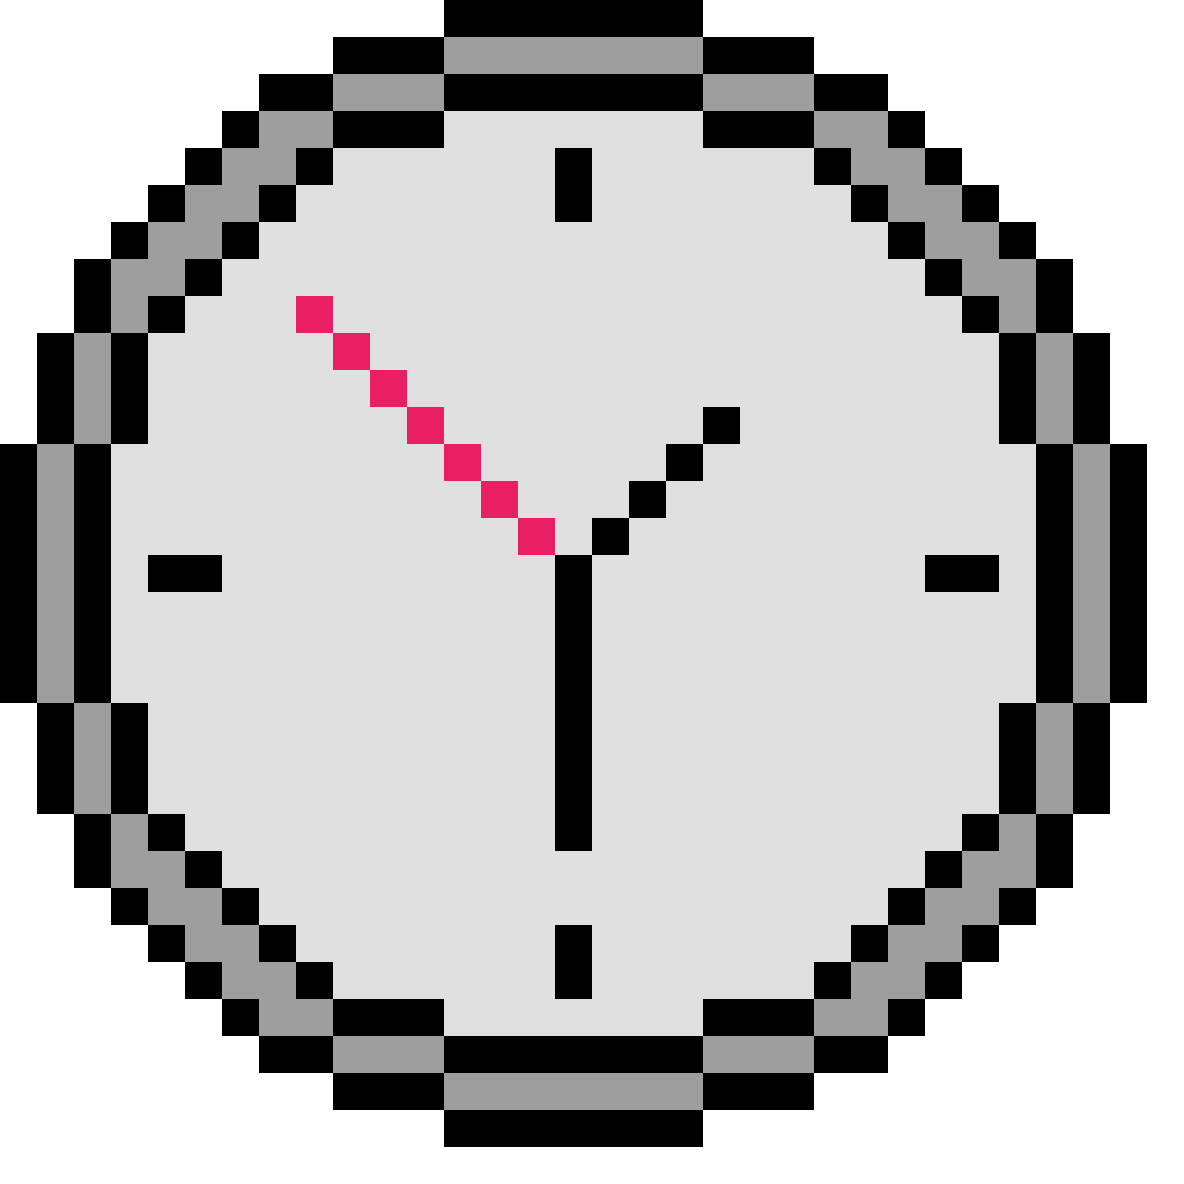
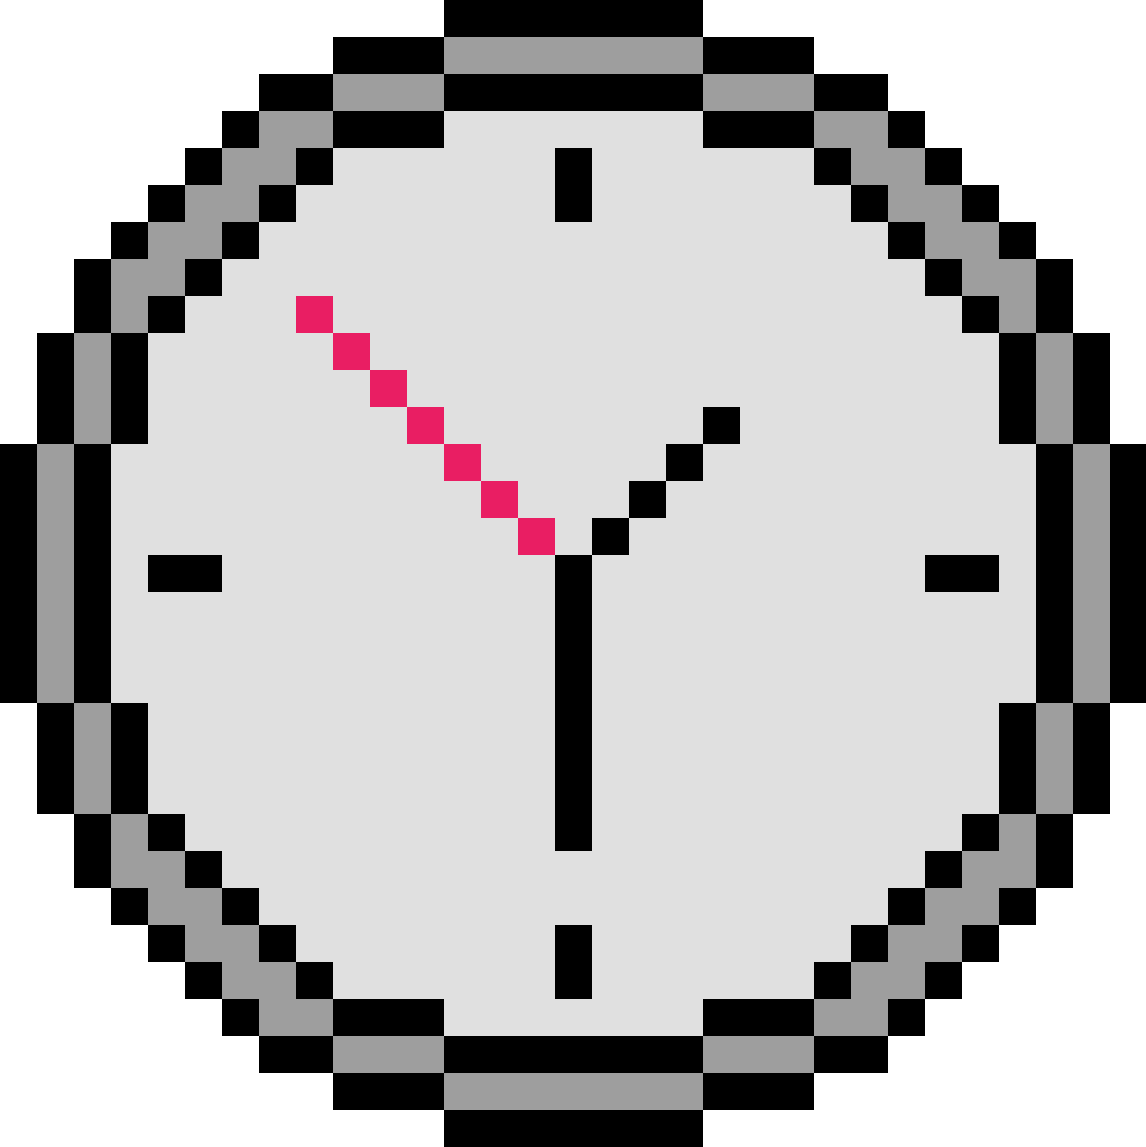
navigation styling (WIP)

Changed region(s): [[0.0, 0.0, 1.0, 1.0]]

diff --git a/src/style.css b/src/style.css
@@ -12,28 +12,57 @@ html, body {
     background: linear-gradient(to bottom, #abb7c8 0%, #6c7176 100%);
     height: 100dvh;
     width: 100dvw;
-    margin: 1px;
+    margin: 5px;
 
-    padding-right: 3px;
-    padding: 1px;
+    padding-top: env(safe-area-inset-top);
+    padding-left: env(safe-area-inset-left);
+    padding-right: env(safe-area-inset-right);
+    padding-bottom: env(safe-area-inset-bottom);
 }
+
 
 .header-grid-container {
     display: grid;
-    grid-template-columns: 15% 50% 35%; 
+    grid-template-columns: 15fr 50fr 35fr; 
     gap: 10px;
+    height: 10%;
+    outline: 2px solid red;
+}
+
+#time-header {
+    text-align: left;
+}
+
+#active-app-title {
     text-align: right;
-    height: 5%;
 }
 
 .app-menu-grid {
     display: flex;
-    gap: 10px;
+    gap: 15px;
     text-align: center;
+    padding-top: 12px;
+    outline: 2px solid black;
 }
 
 .app-box {
     flex: 1;
+    aspect-ratio: 1/1;
+    box-sizing: border-box;
+    position: relative;
+    background: #2C2F33;
+    border: 3px solid #c9b608;
+    border-radius: 4px;
+    padding: 12px;
+    box-shadow: 4px 4px 0px #6b5f00;
+    transform: translateY(0);
+    transition: transform 0.15s ease, box-shadow 0.15s ease;
+}
+
+.app-box.current {
+    transform: translateY(-8px);
+    box-shadow: 4px 12px 0px #6b5f00; 
+    border-color: #ffe135;
 }
 
 .app-box img {

diff --git a/src/navigation.js b/src/navigation.js
@@ -11,6 +11,8 @@ const switchSound = new Audio('media/retro-hurt.mp3');
 function onLoad() {
     initWebSocket();
 
+    var initial_active_menu_box = document.querySelector(".app-box");
+    initial_active_menu_box.classList.add("current");
     var initial_active_app = document.getElementById(app_cycle[cur_app]);
     initial_active_app.classList.add("active");
     document.getElementById("active-app-title").textContent = active_app_title[cur_app];
@@ -54,4 +56,11 @@ function cycle_app() {
     cur_app_element = document.getElementById(app_cycle[cur_app]);
     cur_app_element.classList.add("active");
     document.getElementById("active-app-title").textContent = active_app_title[cur_app];
+
+    // update header menu
+    const menu_boxes = document.querySelectorAll(".app-box");
+    menu_boxes.forEach((box, i) => {
+        box.classList.toggle("current", i === cur_app);
+    });
+    
 }

diff --git a/src/index.html b/src/index.html
@@ -17,9 +17,9 @@
             <div id="time-header">time</div>
             <div id="active-app-title">active app</div>
             <div class="app-menu-grid">
-                <div class="app-box" data-clock="clock-app"><img src="media/clock_menu_icon.png" alt="Clock"></div>
-                <div class="app-box" data-weather="weather-app"><img src="media/weather_menu_icon.png" alt="Weather"></div>
-                <div class="app-box" data-food-finder="food-finder-app"><img src="media/food_menu_icon.png" alt="Food Finder"></div>
+                <div class="app-box"><img src="media/clock_menu_icon.png" alt="Clock"></div>
+                <div class="app-box"><img src="media/weather_menu_icon.png" alt="Weather"></div>
+                <div class="app-box"><img src="media/food_menu_icon.png" alt="Food Finder"></div>
             </div>
         </div>
 

diff --git a/firmware/top.cpp b/firmware/top.cpp
@@ -27,7 +27,7 @@ AsyncWebSocket ws("/ws");
 
 void setup() {
   // put your setup code here, to run once:
-  Serial.begin(115200);
+  Serial.begin(9600);
 
   // setup filesystem
   if(!LittleFS.begin(FORMAT_LITTLEFS_IF_FAILED)) {
@@ -50,6 +50,7 @@ void setup() {
 
   // setup websocket
   ws.onEvent(onEvent);
+  server.addHandler(&ws);
 
   // webpage server routing
   server.serveStatic("/", LittleFS, "/").setDefaultFile("index.html");
@@ -58,7 +59,10 @@ void setup() {
 
 void loop() {
   // put your main code here, to run repeatedly:
-  
+  delay(5000);
+  JSONVar obj;
+  obj["type"] = "nav";
+  ws.textAll(JSON.stringify(obj));
 }
 
 void onEvent(AsyncWebSocket *server, AsyncWebSocketClient *client, AwsEventType type, void *arg, uint8_t *data, size_t len) {
@@ -99,5 +103,5 @@ void celebrate() {
 }
 
 void save_food(JSONVar msg) {
-  
+
 }